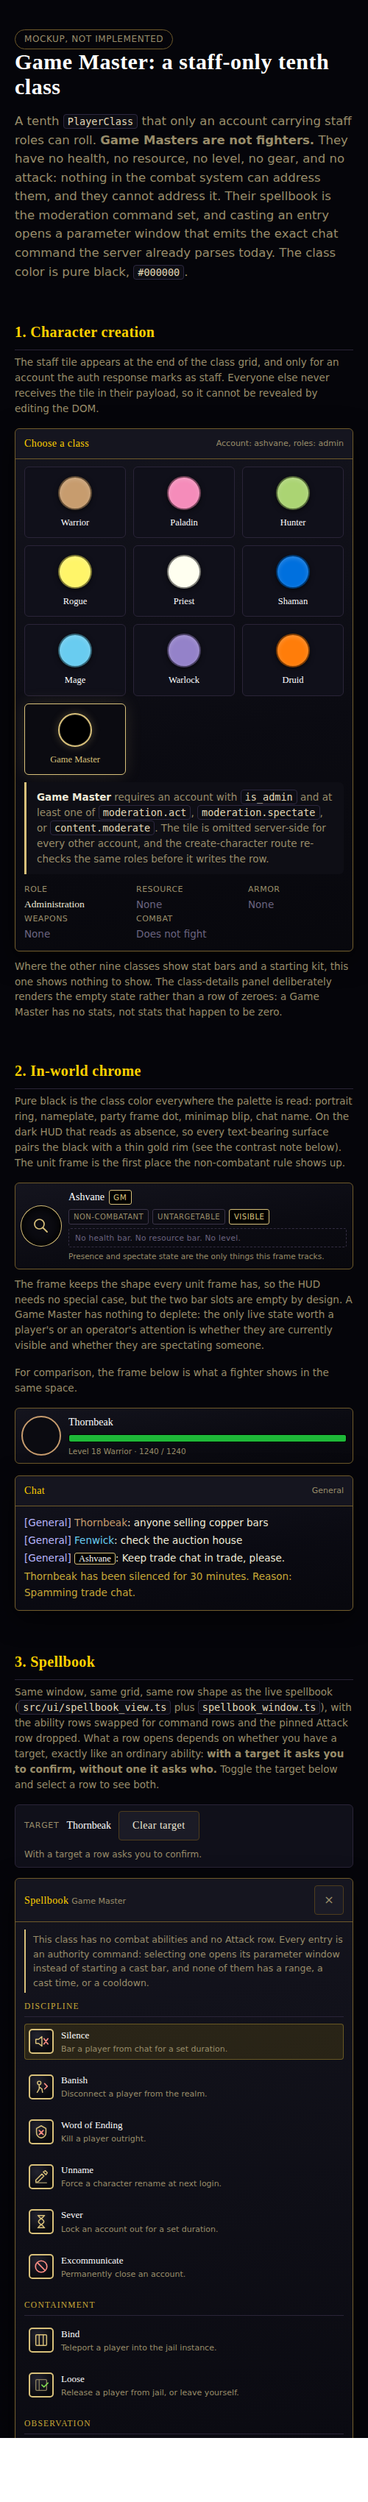
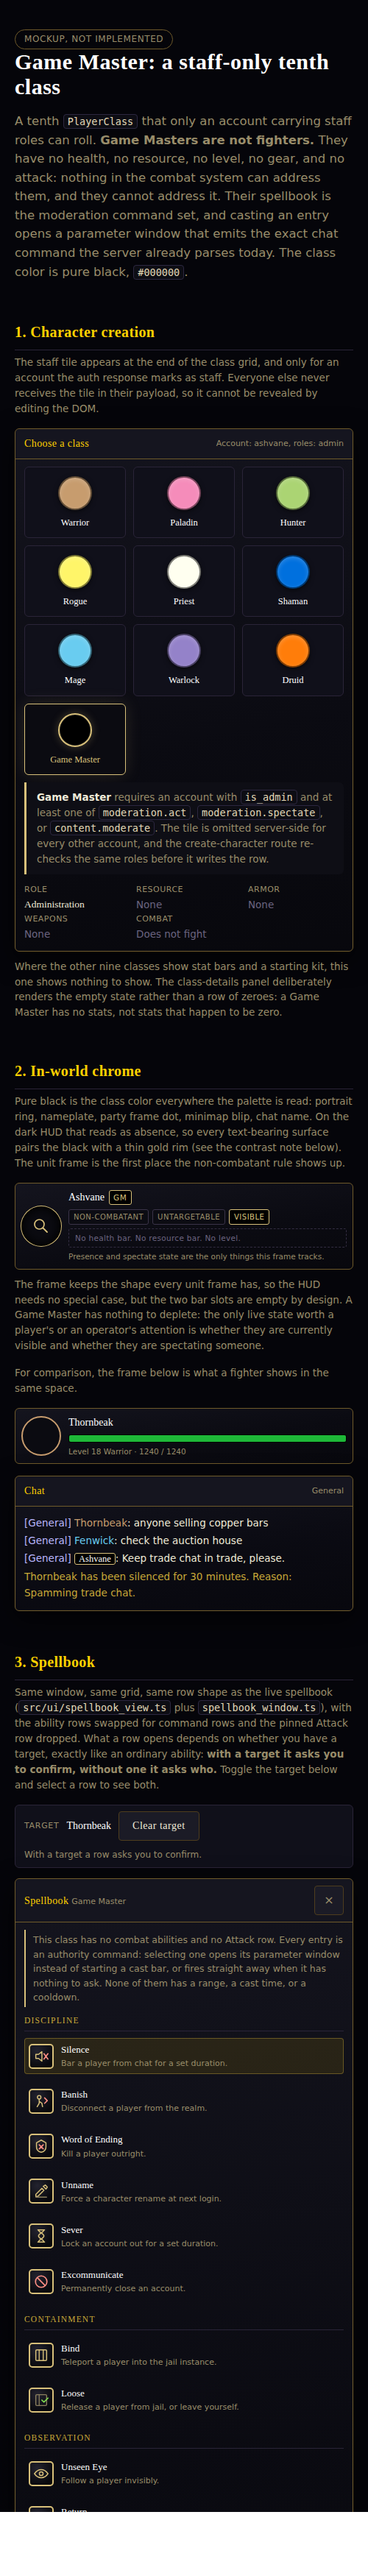
feat(docs): fire argument-free Game Master rows on click
A row now opens a window only when it has something to ask. Return takes
no arguments, names no player, and is not irreversible, so selecting it
sends /unspectate immediately the way an instant ability casts, and the
panel reports what was sent instead of offering an Apply button to press
on an empty form. Those rows carry an Instant chip in the spellbook so
the behavior is legible before the click rather than a surprise after it.

The test is deliberately narrow and all three parts matter: no fields
left to fill, no target to confirm against, and no irreversible flag.
Unseen Eye takes only a name, so it is instant in neither state, and
Excommunicate would still ask even if it were argument-free. Firing is
also gated on a real click, so re-rendering the window when the target
toggles never re-sends a command.

Restates display:none for the hidden action row: the buttons carry an
explicit display:flex, which outranks the UA [hidden] rule, so they
stayed visible in the fired state until the rule was added. The property
read as hidden the whole time, which is why only a rendered screenshot
caught it.

Claude-Session: https://claude.ai/code/session_012bGQz4hsnH1YFBGZWnVcjq

Changed region(s): [[0.03, 0.0, 0.96, 0.9976], [0.51, 0.9041, 0.54, 0.9665], [0.93, 0.7171, 0.96, 0.7482]]

diff --git a/docs/design/game-master-class.html b/docs/design/game-master-class.html
@@ -211,6 +211,10 @@
   .spell-row:hover { background: #ffffff0e; }
   .spell-row:focus-visible { outline: 2px solid var(--color-border-focus); outline-offset: 2px; background: #ffd1001f; }
   .spell-row[aria-current="true"] { background: #ffd1001a; box-shadow: inset 0 0 0 1px #c8a83866; }
+  .instant-chip {
+    flex: none; align-self: center; font-size: 9.5px; letter-spacing: 0.6px; text-transform: uppercase;
+    color: var(--gm-rim); border: 1px solid #3f3a2a; border-radius: 3px; padding: 1px 5px;
+  }
   .spell-row.locked { cursor: not-allowed; }
   .spell-row.locked .spell-icon { filter: grayscale(1) brightness(0.5); }
   .spell-row.locked .spell-name { color: var(--color-text-muted); }
@@ -256,6 +260,8 @@
     font: 13px/1.5 "SF Mono", Menlo, Consolas, monospace; color: #e2d9b7; overflow-x: auto; white-space: pre;
   }
   .cmd-actions { display: flex; gap: 8px; margin-top: 14px; flex-wrap: wrap; }
+  /* An explicit display beats the UA [hidden] rule, so restate it. */
+  .cmd-actions[hidden] { display: none; }
   .btn {
     min-height: 40px; padding: 0 18px; border-radius: 4px; cursor: pointer;
     font: 14px/1 var(--font-display); letter-spacing: 0.5px;
@@ -433,8 +439,8 @@
       </div>
       <p class="book-note">
         This class has no combat abilities and no Attack row. Every entry is an authority command:
-        selecting one opens its parameter window instead of starting a cast bar, and none of them
-        has a range, a cast time, or a cooldown.
+        selecting one opens its parameter window instead of starting a cast bar, or fires straight
+        away when it has nothing to ask. None of them has a range, a cast time, or a cooldown.
       </p>
       <div id="spell-book-body"></div>
     </div>
@@ -449,7 +455,7 @@
       <form id="cmd-form" novalidate></form>
       <h3 style="margin:6px 0 6px">Command sent</h3>
       <div class="cmd-preview" id="cmd-preview">/mute</div>
-      <div class="cmd-actions">
+      <div class="cmd-actions" id="cmd-actions">
         <button type="button" class="btn primary" id="cmd-apply">Apply</button>
         <button type="button" class="btn" id="cmd-cancel">Cancel</button>
       </div>
@@ -547,14 +553,20 @@
     Rows that name no player (Return, Proclaim) never show the question, since there is nothing for
     a target to disambiguate.
   </p>
-  <div class="callout">
-    <p style="margin:0">
-      Still open: Return takes no arguments at all, yet selecting it opens a window whose only content
-      is "This command takes no arguments." A zero-argument row should almost certainly just fire on
-      click like an instant ability, and the window should be reserved for rows that have something
-      to ask.
-    </p>
-  </div>
+  <h3>Rows with nothing to ask fire on click</h3>
+  <p>
+    A row only opens a window when it has something to ask. Return takes no arguments, names no
+    player, and is not irreversible, so selecting it sends <code>/unspectate</code> immediately, the
+    way an instant ability casts. The panel then reports what was sent instead of offering an Apply
+    button to press on an empty form. Those rows carry an <strong>Instant</strong> chip in the
+    spellbook, so the behavior is legible before the click rather than a surprise after it.
+  </p>
+  <p>
+    The test is deliberately narrow, and all three parts matter: no fields left to fill, no target to
+    confirm against, and no irreversible flag. Unseen Eye takes only a name, so it is instant in
+    neither state: untargeted it asks who, and targeted it asks whether. Excommunicate would still
+    ask even if it were argument-free, because the flag outranks the shortcut.
+  </p>
 
   <h3>Open question: what does the world see</h3>
   <p>
@@ -815,6 +827,7 @@
   const permEl = document.getElementById('cmd-perm');
   const toastEl = document.getElementById('cmd-toast');
   const questionEl = document.getElementById('cmd-question');
+  const actionsEl = document.getElementById('cmd-actions');
   const applyBtn = document.getElementById('cmd-apply');
   const cancelBtn = document.getElementById('cmd-cancel');
   const targetNameEl = document.getElementById('target-name');
@@ -852,7 +865,7 @@
   targetToggle.addEventListener('click', () => {
     target = target === null ? 'Thornbeak' : null;
     renderTargetBar();
-    select(active);
+    select(active, false);
   });
 
   // One heading plus one real <ul> per category, so the list is a list to a screen
@@ -882,7 +895,10 @@
       text.appendChild(sub);
       row.appendChild(icon);
       row.appendChild(text);
-      row.addEventListener('click', () => { select(cmd); });
+      // Structurally argument-free rows are instant whatever the target is, so the
+      // chip is safe to paint once instead of on every target change.
+      if (!cmd.fields.length && !cmd.confirm) row.appendChild(el('span', 'instant-chip', 'Instant'));
+      row.addEventListener('click', () => { select(cmd, true); });
       const item = document.createElement('li');
       item.appendChild(row);
       lists[cmd.cat].appendChild(item);
@@ -925,6 +941,23 @@
     return target !== null && actsOnPlayer(active);
   }
 
+  /** The fields the window would actually render for `cmd` right now. */
+  function shownFields(cmd) {
+    const confirming = target !== null && actsOnPlayer(cmd);
+    return confirming ? cmd.fields.filter((f) => f.key !== 'name') : cmd.fields;
+  }
+
+  /**
+   * A row with nothing to ask fires on click, like an instant ability: no fields to
+   * fill, no target to confirm against, and not flagged irreversible. Opening a
+   * window whose only content is "this takes no arguments" is pure friction.
+   */
+  function isInstant(cmd) {
+    if (cmd.confirm) return false;
+    if (target !== null && actsOnPlayer(cmd)) return false;
+    return shownFields(cmd).length === 0;
+  }
+
   /**
    * Put the window into (or out of) its "answer a question" chrome. `who` is the
    * name the question names, or null for the plain form. Shared by the two ways a
@@ -943,6 +976,24 @@
     applyBtn.classList.toggle('primary', !asking);
     cancelBtn.textContent = asking ? 'No' : 'Cancel';
     cancelBtn.classList.toggle('danger', asking);
+  }
+
+  /**
+   * An instant row has no window to fill in: it ran on click. The panel becomes a
+   * record of what was sent rather than a form, with no Apply or Cancel to press.
+   */
+  function renderInstant(cmd, fired) {
+    actionsEl.hidden = true;
+    setConfirmChrome(null);
+    formEl.innerHTML = '';
+    formEl.appendChild(el('p', 'cap', 'Fires the moment you select it. Nothing to fill in.'));
+    const sent = cmd.build({});
+    previewEl.textContent = sent;
+    previewEl.style.opacity = '1';
+    if (!fired) return;
+    toastEl.hidden = false;
+    toastEl.style.borderLeftColor = '#1eb838';
+    toastEl.textContent = `Sent ${sent}. ${cmd.done({})}`;
   }
 
   function refreshPreview() {
@@ -967,7 +1018,11 @@
     return out;
   }
 
-  function select(cmd) {
+  /**
+   * Selecting a row. `fire` is true only for a real click: an instant row runs there
+   * and then, while a re-render (the target toggle) must never re-fire it.
+   */
+  function select(cmd, fire) {
     active = cmd;
     markActive();
     toastEl.hidden = true;
@@ -976,16 +1031,19 @@
     permEl.innerHTML = 'Requires <code>' + cmd.perm + '</code>' +
       (cmd.dev ? ', and the world-command set (dev builds only).' : '.');
     pending = null;
+    if (isInstant(cmd)) {
+      renderInstant(cmd, fire === true);
+      return;
+    }
+    actionsEl.hidden = false;
     const confirming = confirmMode();
     // With a target, the window leads with the question and the buttons answer it.
     setConfirmChrome(confirming ? target : null);
     formEl.innerHTML = '';
     // The name field is omitted in confirm mode: the target already answered it.
-    const shown = confirming ? cmd.fields.filter((f) => f.key !== 'name') : cmd.fields;
+    const shown = shownFields(cmd);
     if (!shown.length) {
-      formEl.appendChild(el('p', 'cap', confirming
-        ? 'Nothing else to fill in.'
-        : 'This command takes no arguments.'));
+      formEl.appendChild(el('p', 'cap', 'Nothing else to fill in.'));
     }
     shown.forEach((f) => {
       const wrap = el('div', 'field');
@@ -1077,7 +1135,7 @@
   renderList();
   renderCatalog();
   renderTargetBar();
-  select(COMMANDS[0]);
+  select(COMMANDS[0], false);
 })();
 </script>
 </body>
